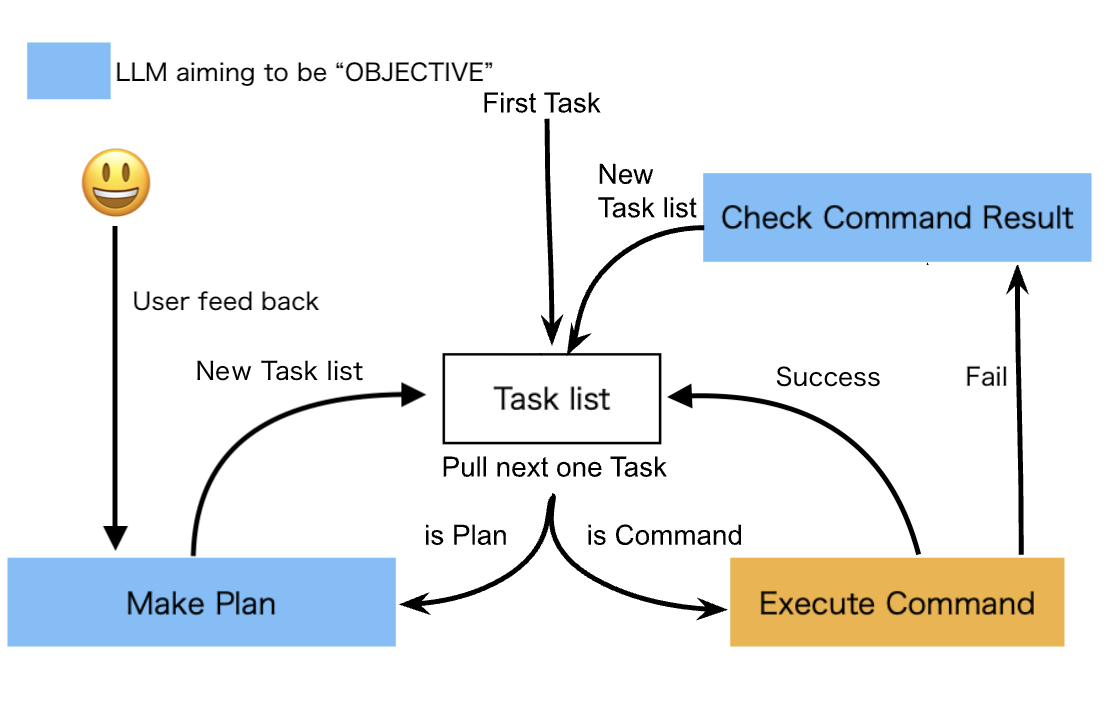
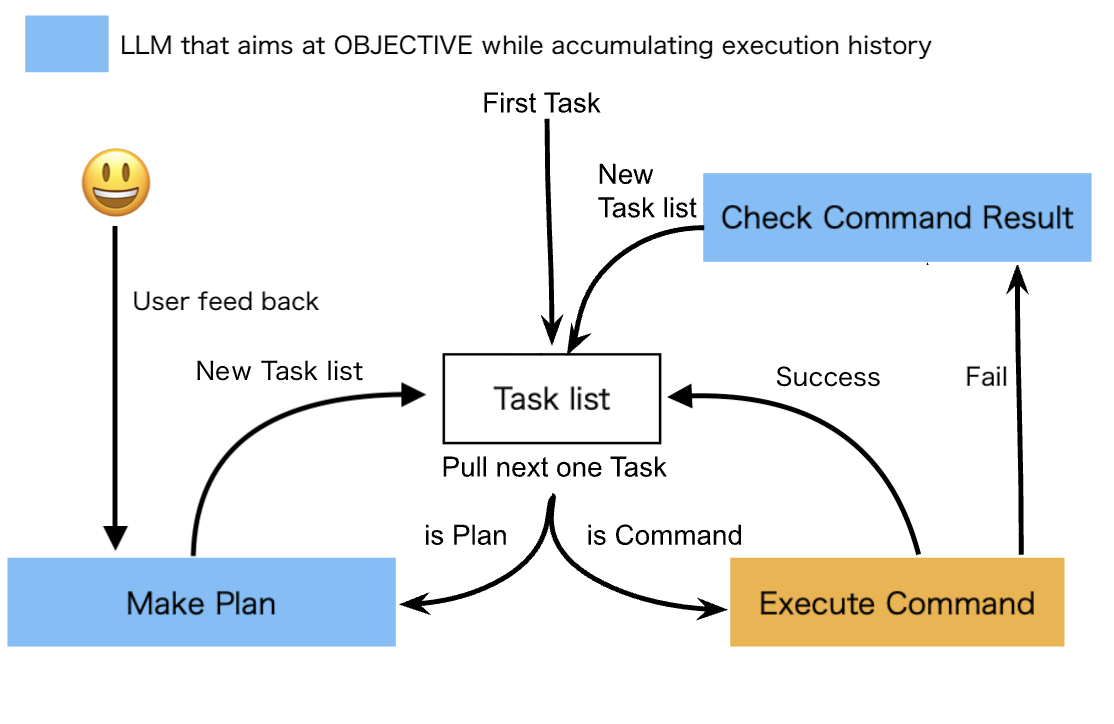
Mention in README.md that there is a history of command execution

Changed region(s): [[0.0, 0.0, 0.8546, 0.1519]]

diff --git a/README.md b/README.md
@@ -48,17 +48,17 @@ https://x.com/saten_work/status/1791558481432232355
 This script works by executing the following continuous loop:
 
 1. pull the next task from the task list. (It starts with one plan task.)
-2. determine whether the task is a command task or a plan task
+2. determine whether the task is a command task or a planned task
 3. if it is a command task: 
     1. Execute the command. 
     2. If the Status Code of the command execution result is 0 (success):
         Go to 5.
     3. Otherwise (failure): 
-        Analyze the results of previous command executions with LLM and create a new task list according to the OBJECTIVE.
-4. for a plan task:
-    1. plan with LLM based on the plan task, the results of the previous execution and the OBJECTIVE, and create a new task list.
+        Analyze the history of command executions with LLM and create a new task list according to the OBJECTIVE.
+4. for plan tasks:
+    1. plan with LLM based on the plan task, the history of command executions and the OBJECTIVE, and create a new task list.
 5. If user feedback is generated:
-    1. plan and create a new task list in LLM based on the OBJECTIVE and results of previous execution while being aware of feedback.
+    1. plan and create a new task list in LLM based on the OBJECTIVE and  the history of command executions while being aware of feedback.
 
 ![Architecture](docs/Architecture.png)
 

diff --git a/README-jp.md b/README-jp.md
@@ -54,11 +54,11 @@ https://x.com/saten_work/status/1791558481432232355
     2. コマンド実行結果のStatus Codeが0(成功)の場合:
         5.へ
     3. それ以外(失敗):
-        今までのコマンド実行の結果をLLMで分析し、目的に応じて新しいタスクリストを作成
+        コマンド実行履歴をLLMで分析し、目的に応じて新しいタスクリストを作成
 4. 計画タスクの場合:
-    1. 計画内容と今までの実行結果と目的を元にLLMで計画し、新しいタスクリストを作成する
+    1. 計画内容とコマンド実行履歴と目的を元にLLMで計画し、新しいタスクリストを作成する
 5. ユーザーのフィードバックが生じている場合:
-    1. フィードバックを意識しつつ目的と今までの実行結果を元にLLMで計画し、新しいタスクリストを作成する
+    1. フィードバックを意識しつつ目的とコマンド実行履歴を元にLLMで計画し、新しいタスクリストを作成する
 
 
 ![Architecture](docs/Architecture.png)
